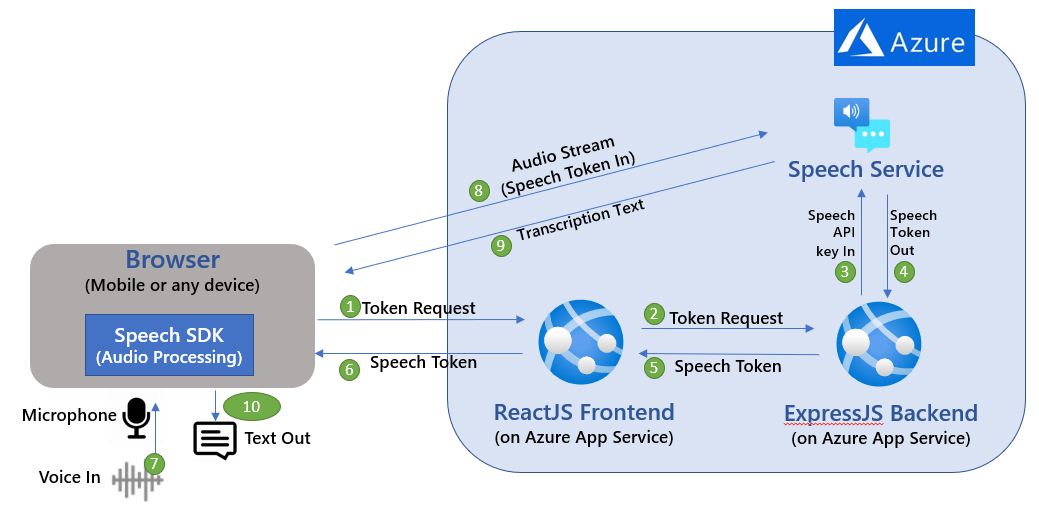
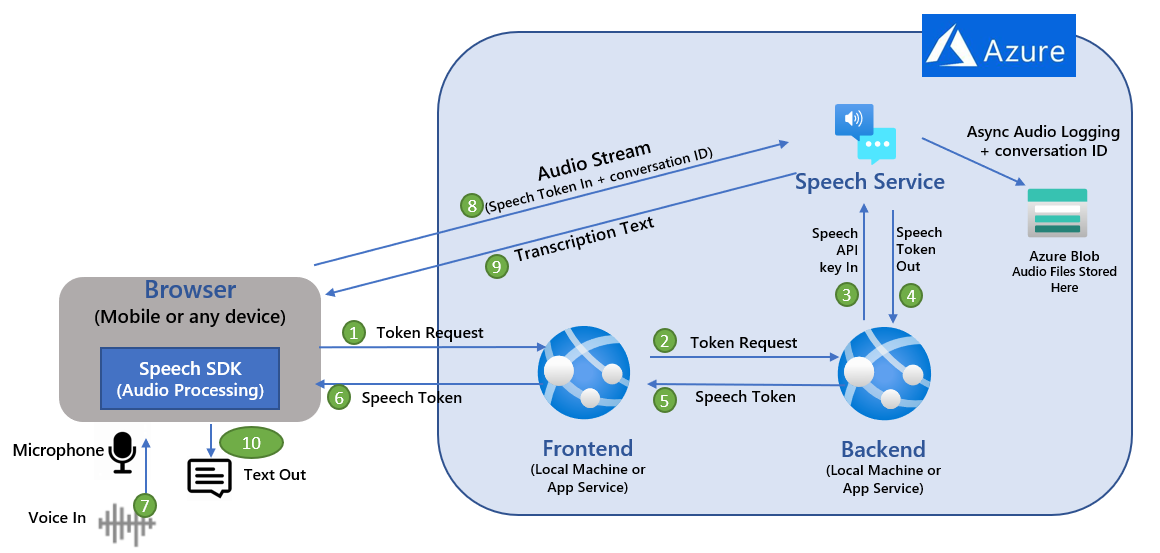
Updates to real-time client readme

Changed region(s): [[0.0, 0.0, 1.0, 0.9942]]

diff --git a/README.md b/README.md
@@ -1,27 +1,28 @@
 # Call Center Intelligence: Powered by Azure AI
  
- This is a sample solution Call Center Intelligence powered by Azure AI. It shows how Azure AI services could be used both in real-time and batch scenarios for a Intelligent Contact Center.
+ This is a sample solution for Call Center Intelligence powered by Azure AI. It shows how Azure AI services could be used both in real-time and batch scenarios for an Intelligent Contact Center.
 
- Below diagram depicts key components and Azure services used in this sample solution
-<img src="common/images/highleveloverview.JPG" align="center" />
+ Below diagram depicts key components and Azure services used in this sample solution.
+
+<img src="common/images/highleveloverview.PNG" align="center" />
 
 ## Contents
 
 Outline the file contents of the repository. It helps users navigate the codebase, build configuration and any related assets.
 
-| Folder       | Description                                |
+| Folder                              | Description                                |
 |-------------------|--------------------------------------------|
-| `azure-custom-speech`       | Sample data and instructions to create custom transcription model using Azure Speech service (Step 1 in above diagram). This step produces a sample custom speech model. This step also enables speech logging to capture real-time call audio.                  |
+| `azure-custom-speech`               | Sample data and instructions to create custom transcription model using Azure Speech service (Step 1 in above diagram). This step produces a sample custom speech model. This step also enables speech logging to capture real-time call audio.                  |
 | `azure-speech-streaming-reactjs`    | Java Script applications that simulates real-time call intelligence (Step 2 in above diagram). This application also captures audio conversation that could be used in the next step for batch call analytics.             |
 | `call-batch-analytics`      | ARM template file and deployment guide for performing ingestion & batch analytics of calls using various Azure AI services (Step 3 in above diagram). This part of the solution can be used either with data output from step 2 OR using sample call recordings (if you have that).   |
-| `powerbi`      | Template files and deployment guide for visualizing call insights using Power BI (Step 4 in above diagram).      |
+| `powerbi`                  | Template files and deployment guide for visualizing call insights using Power BI (Step 4 in above diagram).      |
 
 
 ## Prerequisites
 
 * An existing [Azure Account](https://azure.microsoft.com/free/)
 * Ensure you have [Node.js](https://nodejs.org/en/download/) installed. Required for `Step 2` only.
-* Ensure you have [Power BI] (https://powerbi.microsoft.com/en-us/downloads/) installed. Required for `Step 4` only.
+* Ensure you have [Power BI](https://powerbi.microsoft.com/en-us/downloads/) installed. Required for `Step 4` only.
 
 
 ## Dependencies

diff --git a/azure-speech-streaming-reactjs/README.md b/azure-speech-streaming-reactjs/README.md
@@ -1,6 +1,8 @@
 # Real-time Transcription using Azure Speech in ReactJS
 
-This sample shows how to integrate the Azure Speech service into a sample React application. This sample shows design pattern examples for authentication token exchange and management, as well as capturing audio from a microphone or file for speech-to-text conversions.
+This sample simulates call center intelligence in real-time using Azure AI services. The code also records the conversation to Azure storage using the conversation ID provided by the user on web UI.
+
+This sample shows design pattern examples for authentication token exchange and management, as well as capturing audio from a microphone or file for speech-to-text conversions.
 
 Below architecture diagram depicts key components and API/communication sequence used in this sample
 <img src="common/images/speechstreamingdiagram.PNG" align="center" />
@@ -24,7 +26,7 @@ This sample uses Express.js backend framework which allows you to make http call
 
 
 2. **Prepare and run the Speech service Express.js backend**
-    -	Go to speechexpressbacked directory and run `npm install` to install dependencies.
+    -	Go to speechexpressbacked directory and run `npm install -all` to install dependencies.
     -	Update the “.env” file with your Azure Speech service key and Azure region. Azure Region value examples: “eastus2”, “westus”
     -	Start Speech service backend app by running `‘npm start’`
     -	If you are running this locally then try accessing below URLs from browser to verify that the backend component is working as expected
@@ -34,7 +36,7 @@ This sample uses Express.js backend framework which allows you to make http call
         *	`https://<<your backend Azure App service name>>/api/sayhello`
         *	`https://<<your backend Azure App service name>>/api/get-speech-token`
 3.	**Prepare and run the Speech client React.js frontend**
-    +	Go to speechreactfrontend directory and run `npm install` to install dependencies.
+    +	Go to speechreactfrontend directory and run `npm install -all` to install dependencies.
     +	Update “package.json” as following. Set value of “proxy” depending on where your Express.js backend is running. 
     +	If Express.js backend “speechexpressbacked” running on local machine then use `"proxy": "http://localhost:8080"`
     +	If Express.js backend “speechexpressbacked”running on Azure. Use `"proxy": https://<<your backend Azure App service name>>.azurewebsites.net`
